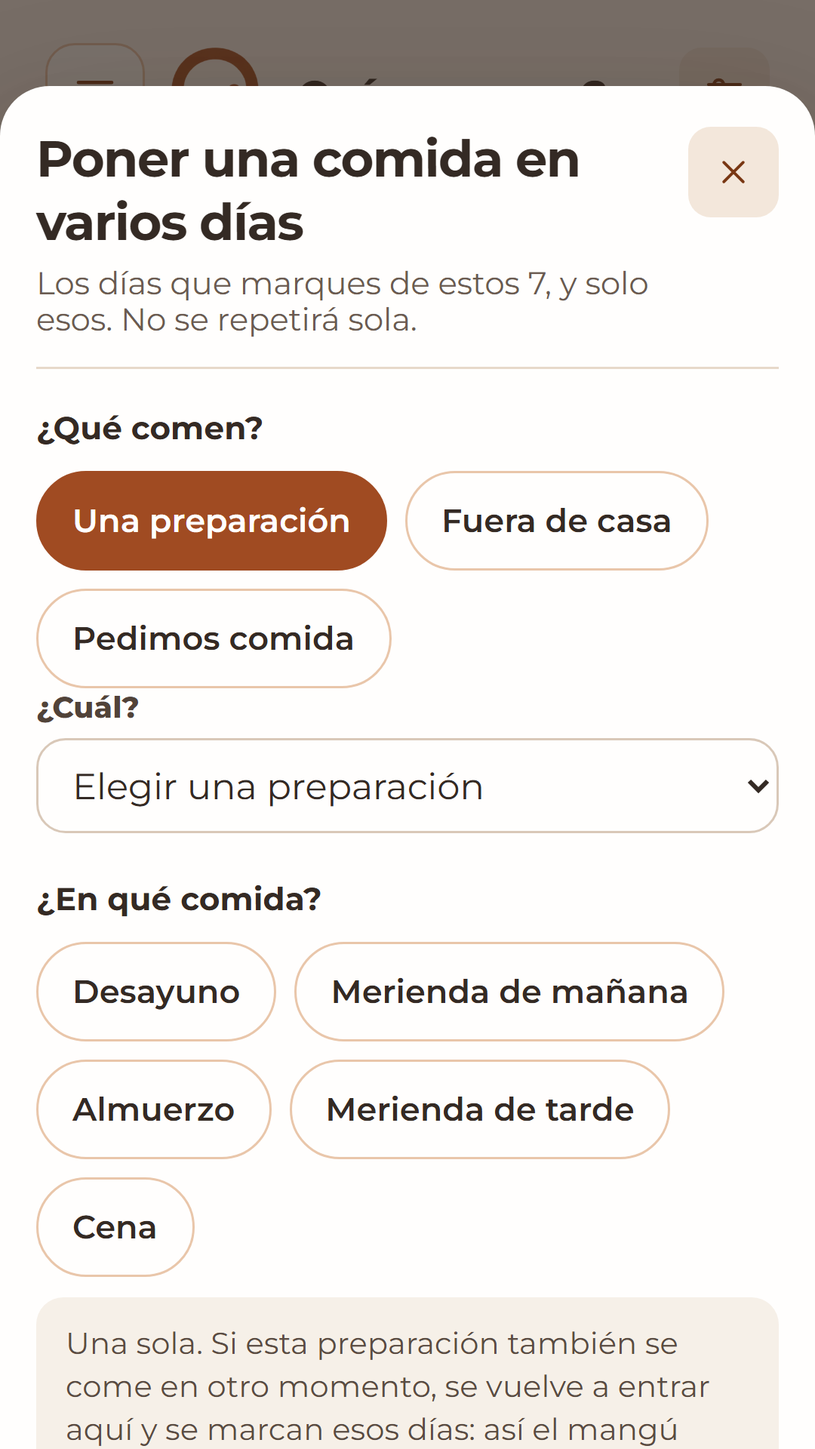
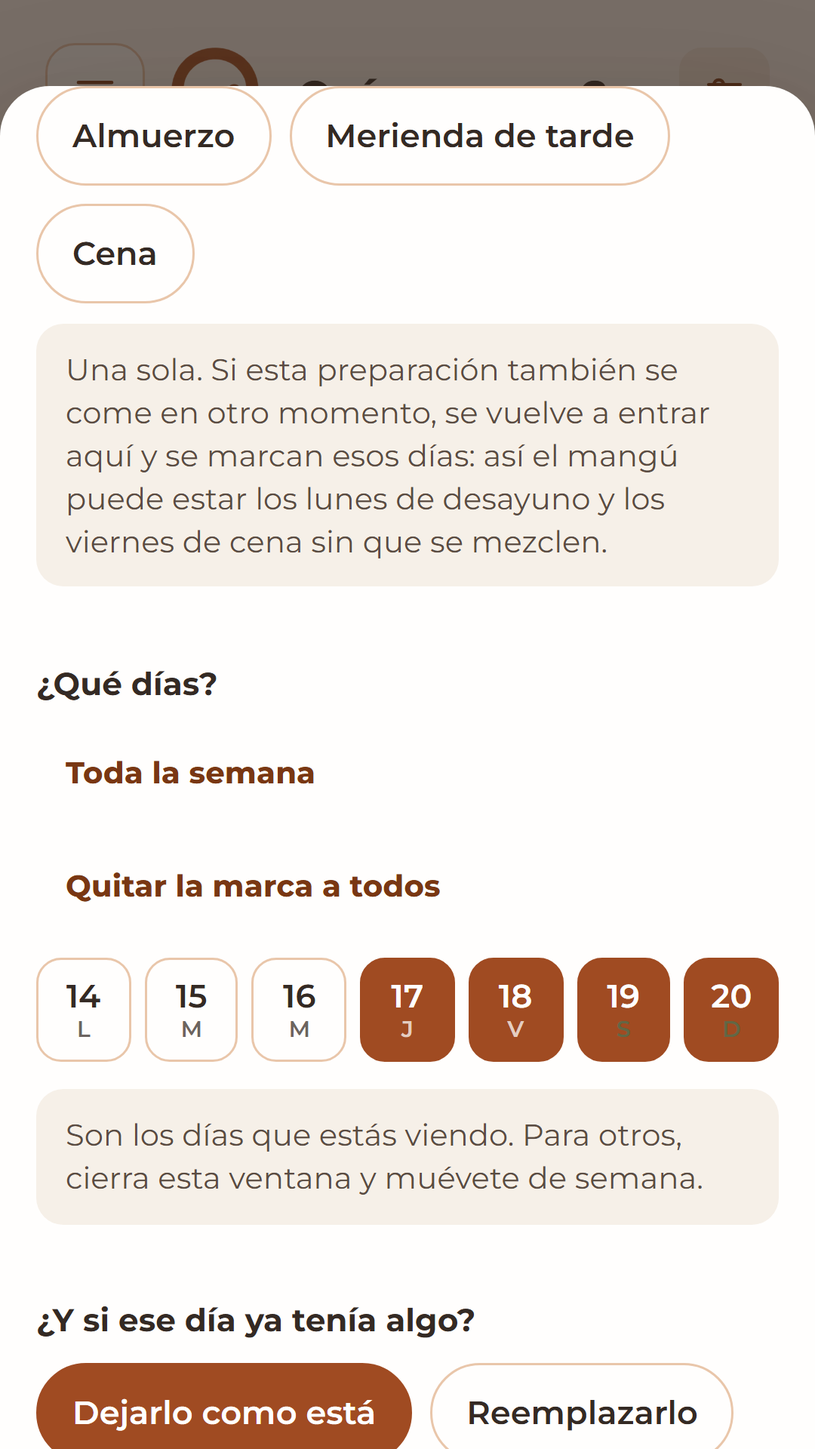
Lo que encontró la verificación independiente
Nueve cosas, y una rompía un criterio que yo daba por bueno: en escritorio, con
el menú lateral plegado, no quedaba ningún engranaje. El del lateral se esconde
con él y el del teléfono está apagado por encima de 700 px, así que no había
puerta a Ajustes. Y el plegado se recuerda entre sesiones: quien lo plegaba una
vez se quedaba sin Ajustes para siempre. Hay un tercero en la cabecera, que
aparece solo en ese caso.

Las otras ocho:

  · Ajustes anunciaba «corregir un conteo viejo» en el mismo commit que borró
    el botón, y el README repetía lo mismo.
  · La ficha de Play decía que la primera captura enseña las cantidades de una
    comida, que la clave de firma no existe todavía, y que el versionCode está
    en 1. Ninguna de las tres era verdad.
  · Tres de las seis capturas no enseñaban lo que su propia ficha promete: la
    ventana de poner en varios días salía vacía y sin días, «Mi lista» no
    enseñaba ni un renglón tachado, y la compra se comía el buscador.
  · Un <form> sin quien lo atendiera, el único huérfano del proyecto.
  · Dos oyentes muertos del inventario en app.js, y el import que los sostenía.
  · Un comentario describiendo el reparto por quincenas, que ya no está debajo.

Y una décima que no era un fallo sino una decisión mal puesta: destachar un
renglón borraba una cantidad parcial escrita a mano. Un dedo de más sobre «traje
1 de 5» tiraba ese 1 sin avisar y sin deshacer. Ahora destachar solo borra lo
que el propio toque había escrito.
[…]

diff --git a/src/app.js b/src/app.js
@@ -8,7 +8,7 @@
 
 import {
   ESTADOS_SIN_COMIDA, MOMENTOS, SLOTS, SLOTS_PRINCIPALES, UNITS, addDays, actualizarHabitual, agregarHabitual, anotarComidaSuelta, copyPlan, createEmptyState, dependents, esOpcional,
-  etiquetaDeMomento, exportState, findSimilarProducts, habitualLines, importState, inventoryNow, esActiva, isAbsent, makeRecipePlan, mergeProducts, movePlan, nextId,
+  etiquetaDeMomento, exportState, findSimilarProducts, habitualLines, importState, esActiva, isAbsent, makeRecipePlan, mergeProducts, movePlan, nextId,
   personasActivas, planFor, ponerFrecuencia, product, removeHabitualLine, rubroDe,
   resumenDeLista, reutilizarComida, setAbsence, setEquivalence,
   detalleDeOrigen, etiquetaDeOrigen, origenDe, setStatusPlan, sliceStyle, todayISO, updatePlan, updateProduct, upsertRecipe
@@ -30,7 +30,7 @@ import { CUENTA_ACTIONS, CUENTA_FORMS, emptyCuenta, renderCuenta, volvimosDeGoog
 import { CAJON_DE_ESTE_TELEFONO, arrancarSesion, cajonDe, fundirSesion, guardarSesion, olvidarSesion } from './sesion.js';
 import { guardarCopiaAntesDeBajar, mereceLaPenaVincular, sincronizar } from './sincronizar.js';
 import { hayNube } from './config-nube.js';
-import { button, cap, empty, esc, fmt, measure, modal, monthName, niceDate, notice, options, unitText } from './ui-kit.js';
+import { button, cap, empty, esc, measure, modal, monthName, niceDate, notice, options, unitText } from './ui-kit.js';
 
 /* ── De qué cajón salen los datos ──────────────────────────────────────────
 
@@ -560,7 +560,7 @@ function pintar() {
     <button type="button" class="drawer-scrim" data-action="close-sidebar" aria-label="Cerrar menú lateral"></button>
     <main class="main">
       <div class="mobile-brand"><button type="button" class="menu-toggle" data-action="toggle-sidebar" aria-label="${ui.drawerOpen ? 'Ocultar menú' : 'Abrir menú'}" aria-controls="app-sidebar" aria-expanded="${ui.drawerOpen}">${icono('menu', { tamano: 22 })}</button><span class="brand-mark">${BRAND_MARK}</span><span>¿Qué comemos?</span>${engranaje('icon-btn engranaje-movil', '')}</div>
-      <header class="topline"><div class="topline-heading"><button type="button" class="menu-toggle desktop-menu-toggle" data-action="toggle-sidebar" aria-label="${ui.sidebarCollapsed ? 'Abrir menú' : 'Ocultar menú'}" aria-controls="app-sidebar" aria-expanded="${!ui.sidebarCollapsed}">${icono('menu', { tamano: 22 })}</button><div><p class="eyebrow">${esc(eyebrow())}</p><h1>${esc(pageTitle())}</h1></div></div></header>
+      <header class="topline"><div class="topline-heading"><button type="button" class="menu-toggle desktop-menu-toggle" data-action="toggle-sidebar" aria-label="${ui.sidebarCollapsed ? 'Abrir menú' : 'Ocultar menú'}" aria-controls="app-sidebar" aria-expanded="${!ui.sidebarCollapsed}">${icono('menu', { tamano: 22 })}</button><div><p class="eyebrow">${esc(eyebrow())}</p><h1>${esc(pageTitle())}</h1></div></div>${engranaje('icon-btn engranaje-plegado', '')}</header>
       ${avisoDeSesion ? notice('Sobre tu cuenta', `${esc(avisoDeSesion)} <button type="button" class="enlace" data-action="navigate" data-page="cuenta">Ir a mi cuenta</button>`, 'warn') : ''}
       ${migratedFrom ? notice('Tus datos se actualizaron al formato nuevo.', 'La canasta que tenías es ahora <strong>tus productos habituales</strong>, y lo que cambiaba en algún mes quedó guardado como cambio de ese mes. Nada se perdió, y lo anterior quedó a salvo por si acaso.') : ''}
       ${loadError ? notice('No se pudieron leer los datos guardados.', `${esc(loadError)} Trae una copia desde Ajustes → Respaldo, o borra los datos para empezar de nuevo.`, 'error') : ''}
@@ -1391,7 +1391,6 @@ document.addEventListener('change', event => {
     const form = el.closest('form'), date = form.querySelector('[name="date"]').value, slot = form.querySelector('[name="slot"]').value;
     form.querySelectorAll('[name="absent"]').forEach(input => input.checked = isAbsent(state, date, slot, input.value));
   }
-  if (el.name === 'productId' && el.closest('[data-form="correction"]')) el.form.querySelector('[name="actual"]').value = inventoryNow(state)[el.value] || 0;
   // El grosor solo aparece en lo que se corta; se oculta sin volver a dibujar
   // el formulario para no perder lo ya escrito.
 
@@ -1436,17 +1435,6 @@ document.addEventListener('input', event => {
       : '';
     return;
   }
-  const input = event.target;
-  if (!input.name?.startsWith('consume-')) return;
-  const fila = input.closest('[data-review-product]');
-  const celda = fila?.querySelector('.revision-derivado');
-  if (!celda) return;
-  const queda = fila.dataset.mode === 'restante';
-  if (input.value === '') { celda.textContent = 'pendiente'; celda.className = 'revision-derivado remaining pending'; return; }
-  const derivado = Number(fila.dataset.available) - Number(input.value);
-  const excede = derivado < 0;
-  celda.textContent = excede ? (queda ? 'queda más de lo que había anotado' : 'revisa la cantidad') : `${queda ? 'se consumió' : 'queda'} ${fmt(derivado)}`;
-  celda.className = `revision-derivado remaining ${excede ? 'pending' : 'good'}`;
 });
 
 document.addEventListener('keydown', event => {

diff --git a/src/page-mas.js b/src/page-mas.js
@@ -355,7 +355,7 @@ function tablaDeRevision(ctx, revision) {
   const visibles = revision.productIds;
 
   return `<p class="pantalla-intro">${esc(niceDate(revision.date, { weekday: 'long', day: 'numeric', month: 'long' }))} · lo que se contó aquel día. ${queda ? 'La cifra de la derecha es lo que quedaba.' : 'La cifra de la derecha es lo que se había consumido.'}</p>
-    <form data-form="review" data-id="${revision.id}">
+    <div class="revision-cuerpo">
       <div class="card revision-lista">${(visibles.length ? visibles : []).map(id => {
         const item = product(state, id);
         const habia = disponible[id] || 0;
@@ -374,7 +374,7 @@ function tablaDeRevision(ctx, revision) {
       }).join('')}</div>
       <p class="small muted">Es lo que se anotó aquel día, tal cual. La app dejó de llevar la cuenta de la despensa y esto ya no se vuelve a calcular.</p>
       <div class="pantalla-acciones"><span class="pill">Terminada</span></div>
-    </form>`;
+    </div>`;
 }
 
 const corte = (item, cantidad) => {
@@ -638,7 +638,7 @@ function renderAjustes(ctx) {
     </div>
     <div class="card">
       <h3>Preferencias de la aplicación</h3>
-      <p class="muted small">Cada cuánto se hace la compra principal —y cómo se reparte el mes cuando se compra dos veces—, y las herramientas de reparar: medidas de compra, unir dos alimentos que son el mismo, corregir un conteo viejo.</p>
+      <p class="muted small">Cada cuánto se hace la compra principal —y cómo se reparte el mes cuando se compra dos veces—, y las herramientas de reparar: medidas de compra, unir dos alimentos que son el mismo, archivar lo que la casa dejó de comprar.</p>
       <p class="small">Compra <strong>${esc(frecuenciaDe(state, hoy().slice(0, 7)) === 'quincenal' ? 'quincenal — dos veces al mes' : 'mensual — una vez al mes')}</strong>.</p>
       <div class="inline">${button('Organización de compra', 'navigate', 'btn-secondary btn-small', 'data-page="organizacion"')}${button('Funciones avanzadas', 'navigate', 'btn-secondary btn-small', 'data-page="avanzado"')}</div>
     </div>
@@ -725,9 +725,6 @@ function formularioDeFrecuencia(ctx, actual, mesActual) {
     </div>
   </form>`;
 }
-
-// El reparto entre las dos quincenas, el mismo que enseña el recorrido guiado.
-// Aquí vive el resto del año, que es cuando de verdad se corrige.
 
 /* ── Privacidad y condiciones ──────────────────────────────────────────── */
 

diff --git a/tools/capturas.js b/tools/capturas.js
@@ -76,21 +76,30 @@ const PANTALLAS = [
   {
     archivo: '3-poner-en-dias.png',
     titulo: 'Una comida en varios días — se marcan y se ponen',
-    // Con los siete días siguientes ya marcados, que es lo que hay que enseñar:
-    // una ventana vacía no explica nada a quien todavía no sabe para qué sirve.
+    // Con una preparación elegida y los siete días siguientes ya marcados, que
+    // es lo que hay que enseñar: una ventana vacía no explica nada a quien
+    // todavía no sabe para qué sirve. El desplazamiento baja dentro de la
+    // ventana —no de la página— hasta las casillas de los días.
     hacer: `${ir('semana')};
       await new Promise(r => setTimeout(r, 400));
       document.querySelector('[data-action="semana-poner-en-dias"]')?.click();
       await new Promise(r => setTimeout(r, 500));
-      document.querySelector('[data-action="poner-dias-atajo"][data-cuantos="7"]')?.click();`
+      const receta = document.querySelector('[data-form="poner-en-dias"] [name="recipeId"]');
+      if (receta) {
+        const opcion = [...receta.options].find(o => o.value);
+        if (opcion) { receta.value = opcion.value; receta.dispatchEvent(new Event('change', { bubbles: true })); }
+      }
+      await new Promise(r => setTimeout(r, 300));
+      document.querySelector('[data-action="poner-dias-atajo"][data-cuantos="7"]')?.click();`,
+    desplazar: 430
   },
   {
     archivo: '4-compra.png',
     titulo: 'Preparar la compra — tus productos, por rubros',
-    // Hasta los rubros. Arriba solo hay avisos, y un aviso no enseña para qué
-    // sirve la pantalla.
+    // Hasta el buscador y el primer rubro. Más abajo se pierde de vista que
+    // esto se puede buscar, que es la mitad de para qué sirve la pantalla.
     hacer: ir('compra'),
-    desplazar: 620
+    desplazar: 430
   },
   {
     archivo: '5-mi-lista.png',
@@ -101,7 +110,10 @@ const PANTALLAS = [
         .find(b => /mi lista/i.test(b.textContent))?.click();
       await new Promise(r => setTimeout(r, 500));
       ${MARCAR_COMPRADO}`,
-    desplazar: 260
+    // Lo que esta captura tiene que enseñar son las dos mitades a la vez: un
+    // renglón por buscar arriba y, debajo, «Ya en el carrito» con lo tachado.
+    // Bajar hasta el final enseña solo la segunda.
+    desplazar: 640
   },
   {
     archivo: '6-habituales.png',

diff --git a/tests/textos-retirados.test.js b/tests/textos-retirados.test.js
@@ -42,8 +42,34 @@ const PROMESAS_RETIRADAS = [
   ['la canasta, el menú, la compra y el inventario', 'ni canasta, ni menú, ni inventario'],
   ['más → respaldo', 'la sección «Más» no existe'],
   ['corregir lo que hay', 'la app no sabe lo que hay'],
+  ['corregir un conteo', 'esa herramienta se retiró en la Fase 3'],
   ['plan mensual', 'la sección se llama Plan semanal']
 ];
+
+/* La lista de arriba es una lista blanca, y las listas blancas solo cazan lo
+   que ya se cazó una vez. Esta segunda comprobación es al revés: se parte de
+   los controles que **existen** y se exige que nadie nombre uno que no esté.
+   Fue lo que se escapó en la Fase 3 —Ajustes anunciaba «corregir un conteo
+   viejo» en la misma versión en que el botón desapareció—. */
+
+const HERRAMIENTAS_QUE_EXISTEN = ['medidas de compra', 'unir dos alimentos', 'archivar'];
+
+test('lo que Ajustes anuncia es lo que Funciones avanzadas ofrece', () => {
+  const fuente = readFileSync('src/page-mas.js', 'utf8');
+  const tarjeta = fuente.slice(fuente.indexOf('Preferencias de la aplicación'), fuente.indexOf('Preferencias de la aplicación') + 600);
+  const anunciadas = tarjeta.toLocaleLowerCase('es');
+  for (const [frase, porque] of PROMESAS_RETIRADAS) {
+    assert.ok(!anunciadas.includes(frase), `Ajustes anuncia «${frase}» — ${porque}`);
+  }
+  // Y lo que anuncia tiene que estar de verdad en la pantalla que abre.
+  const avanzado = fuente.slice(fuente.indexOf('function renderAvanzado'));
+  for (const herramienta of HERRAMIENTAS_QUE_EXISTEN) {
+    if (!anunciadas.includes(herramienta)) continue;
+    const palabra = herramienta.split(' ')[0];
+    assert.ok(avanzado.toLocaleLowerCase('es').includes(palabra),
+      `Ajustes anuncia «${herramienta}» y Funciones avanzadas no la tiene`);
+  }
+});
 
 // En el código, los comentarios sí pueden nombrar lo retirado: explicar por qué
 // una función se fue es justo lo que hay que dejar escrito para quien venga

diff --git a/tests/compra-lista.test.js b/tests/compra-lista.test.js
@@ -305,7 +305,23 @@ test('tachar un renglón no reescribe lo que se anotó a mano', () => {
     'tachar pisó la cantidad que la persona había escrito');
   assert.equal(listaDeCompra(state, lista.id).lineas[0].comprado, true);
 
-  // Y destachar sigue queriendo decir «al final no traje nada».
+  // Y destachar tampoco la tira: ese 1 lo escribió una persona en el pasillo
+  // del supermercado, y un dedo de más no puede borrarlo sin avisar.
+  marcarComprado(state, lista.id, linea.id, false);
+  assert.equal(listaDeCompra(state, lista.id).lineas[0].comprado, false);
+  assert.equal(listaDeCompra(state, lista.id).lineas[0].comprada, 1,
+    'destachar borró una cantidad parcial que nadie pidió borrar');
+});
+
+test('destachar lo que el toque puso sí lo borra', () => {
+  // La otra mitad: si la cantidad la escribió el propio toque —porque no había
+  // ninguna—, destachar quiere decir «al final no traje nada de esto».
+  const { state, arroz } = casa();
+  const lista = crearLista(state);
+  const linea = agregarALista(state, lista.id, { productId: arroz, cantidad: 25, unidad: 'lb' });
+
+  marcarComprado(state, lista.id, linea.id, true);
+  assert.equal(listaDeCompra(state, lista.id).lineas[0].comprada, 25);
   marcarComprado(state, lista.id, linea.id, false);
   assert.equal(listaDeCompra(state, lista.id).lineas[0].comprada, null);
 });

diff --git a/src/sistema.css b/src/sistema.css
@@ -388,6 +388,15 @@ input.text, select.text, textarea.text { border-radius: var(--curva-2); }
 .mobile-brand { position: relative; }
 .engranaje-movil { display: none; margin-left: auto; flex: none; }
 @media (max-width: 700px) { .engranaje-movil { display: grid; } }
+
+/* El tercero: la cabecera. Solo aparece en escritorio con el menú plegado, que
+   es el único momento en que los otros dos no están. El lateral se esconde con
+   el menú y el del teléfono está apagado por encima de 700 px, así que sin este
+   quien pliega el menú se queda sin puerta a Ajustes —y el plegado se recuerda
+   entre sesiones, así que se quedaba sin ella para siempre—. */
+.engranaje-plegado { display: none; flex: none; }
+@media (min-width: 701px) { .shell.sidebar-collapsed .engranaje-plegado { display: grid; } }
+.engranaje-plegado.active { background: var(--clay-light); color: var(--clay-dark); }
 .engranaje-movil.active { background: var(--clay-light); color: var(--clay-dark); }
 
 /* En el lateral, el engranaje es una fila más de la barra: el mismo alto, el

diff --git a/src/model.js b/src/model.js
@@ -1707,8 +1707,11 @@ export function marcarComprado(state, listaId, lineaId, comprado = true) {
   // busca más. Sobrescribir ese 1 con un 2 metería en el historial una compra
   // que no ocurrió.
   //
-  // Destachar sí lo borra: es «al final no traje nada de esto».
-  if (!comprado) linea.comprada = null;
+  // Destachar borra lo que el toque había puesto —«al final no traje nada de
+  // esto»— pero respeta una cantidad parcial escrita a mano: esa no la puso el
+  // toque, y un dedo de más no puede tirar lo que alguien contó en el pasillo
+  // del supermercado.
+  if (!comprado && (linea.comprada === null || linea.comprada === linea.cantidad)) linea.comprada = null;
   else if (linea.comprada === null || linea.comprada === undefined) linea.comprada = linea.cantidad;
   lista.updatedAt = todayISO();
   return linea;

diff --git a/docs/fase-3-entrega.md b/docs/fase-3-entrega.md
@@ -5,7 +5,7 @@ encontré roto por el camino, cómo probarlo tú mismo en local, y qué APK es l
 buena.
 
 **Versión entregada:** 3.0 (`versionCode` 5) · `com.nexocore.quecomemos`
-**Pruebas:** 587, todas en verde (`node --test tests/*.test.js`)
+**Pruebas:** 589, todas en verde (`node --test tests/*.test.js`)
 
 ---
 
@@ -39,7 +39,7 @@ línea, o una prueba que falla si eso deja de ser verdad.
 | 2.1 | Cinco secciones exactas, en orden: Hoy · Plan semanal · Compra · Mis productos habituales · Preparaciones | HECHO | `src/app.js` `NAV`; `tests/pages.test.js` |
 | 2.2 | Sin «Más» y sin «Plan mensual» | HECHO | `tests/textos-retirados.test.js` |
 | 2.3 | Productos y Preparaciones abren sus pantallas existentes, sin copias | HECHO | Las dos entran por `renderMas`, el mismo módulo de siempre |
-| 2.4 | Engranaje visible que abre Ajustes, en móvil y en escritorio | HECHO | `src/app.js` `engranaje()`; comprobado a 375 px y en escritorio |
+| 2.4 | Engranaje visible que abre Ajustes, en móvil y en escritorio | HECHO | `src/app.js` `engranaje()`, tres instancias. **La verificación encontró que con el menú plegado no había ninguna**: arreglado con el de la cabecera |
 | 2.5 | Ajustes agrupa los seis destinos pedidos | HECHO | `src/page-mas.js` `renderAjustes`; `tests/pages.test.js` |
 | 2.6 | «Alimentos de la casa» retirada como ficha técnica y como segunda vía | HECHO | Editar se hace desde la fila del producto; archivar y unir, desde Funciones avanzadas |
 | 2.7 | Registro inicial de cinco pasos, escrito para esta versión | HECHO | `src/setup.js` `PASO`; recorrido entero comprobado a mano |
@@ -86,7 +86,9 @@ línea, o una prueba que falla si eso deja de ser verdad.
 
 ## 2. Lo que encontré roto, y arreglé
 
-Ninguna de estas siete la pediste: salieron auditando.
+Ninguna la pediste: salieron auditando. Las siete primeras las encontré yo; las
+nueve del apartado 2b las encontró la verificación independiente **después** de
+que yo diera la fase por lista.
 
 1. **El buscador de «Preparar la compra» no hacía nada.** El campo estaba
    dibujado y ningún manejador lo escuchaba: se tecleaba y la lista no se
@@ -120,6 +122,43 @@ Ahora está en `src/avisos.js` con doce pruebas.
 
 ---
 
+## 2b. Lo que encontró la verificación independiente
+
+Un segundo agente revisó los 27 criterios sin fiarse de nada de lo anterior.
+Encontró **nueve cosas**, y una de ellas rompía un criterio de la Fase 2 que yo
+daba por bueno. Las nueve están arregladas.
+
+1. **En escritorio, con el menú lateral plegado, no había ningún engranaje.** El
+   engranaje vivía en dos sitios: dentro del lateral, y arriba en el teléfono.
+   Al plegar el lateral el primero se esconde con él y el segundo está apagado
+   por encima de 700 px: cero puertas a Ajustes. Y el plegado **se recuerda
+   entre sesiones**, así que quien lo plegaba una vez se quedaba sin Ajustes
+   para siempre. Hay un tercer engranaje en la cabecera, que aparece solo en ese
+   caso.
+2. **Ajustes anunciaba una herramienta que se acababa de retirar**: «corregir un
+   conteo viejo», en el mismo commit que borró el botón.
+3. **El README repetía lo mismo.**
+4. **La ficha de Play decía que la primera captura enseña «las cantidades»** de
+   una comida, que se retiraron hace dos commits.
+5. **Tres de las seis capturas no enseñaban lo que su propia ficha promete**: la
+   de poner en varios días salía con el desplegable vacío y los días fuera del
+   corte; la de «Mi lista» no enseñaba ni un renglón tachado; la de la compra se
+   comía el buscador. Las tres, regeneradas.
+6. **Un `<form>` sin nadie que lo atendiera** en la pantalla de una revisión
+   vieja: el único `data-form` huérfano del proyecto.
+7. **Fontanería muerta del inventario en `app.js`**: dos oyentes de campos que
+   ya no se dibujan, y el import que los sostenía.
+8. **La ficha de Play decía que la clave de firma «no existe todavía»** y que el
+   `versionCode` estaba en 1. Existe desde la versión 2.0, y va por 5.
+9. **Un comentario huérfano** describiendo el reparto por quincenas.
+
+Y una décima que no era un fallo sino una decisión mal puesta: **destachar un
+renglón borraba una cantidad parcial escrita a mano**. Un dedo de más sobre
+«traje 1 de 5» tiraba ese 1 sin avisar y sin deshacer. Ahora destachar solo
+borra lo que el propio toque había escrito.
+
+---
+
 ## 3. La limpieza, una por una
 
 | Función retirada | Qué quedaba | Cómo quedó |
@@ -148,7 +187,7 @@ escribirlos.
 npm test
 ```
 
-587 pruebas. Después:
+589 pruebas. Después:
 
 ```bash
 npm start

diff --git a/docs/play-store.md b/docs/play-store.md
@@ -8,7 +8,7 @@ Todo lo de aquí sale de leer el código de la app, no de suponer. Cuando algo d
 - **Identificador:** `com.nexocore.quecomemos`
 - **Categoría sugerida:** Estilo de vida (alternativa razonable: Productividad)
 - **Precio:** gratis, sin compras dentro de la app
-- **Actualizado:** 16 de septiembre de 2026
+- **Actualizado:** 17 de septiembre de 2026
 - **Correo de contacto:** `nexocore.group@gmail.com` — **provisional**
 
 Ese correo ya está escrito en las cuatro páginas de `legal/` y en `src/legal.js`, y va también en la ficha de la tienda, donde **es público**: lo ve cualquiera que abra la ficha. Está marcado como provisional a la espera del buzón oficial de NexoCore; cuando cambie, cambia en seis archivos a la vez:
@@ -395,9 +395,9 @@ $bt = Get-ChildItem "$env:LOCALAPPDATA\Android\Sdk\build-tools" -Directory | Sor
 
 **1. Las seis capturas, y por qué esas.** Las genera `npm run capturas`; el orden es el del archivo y cada una tiene una idea sola:
 
-1. **Hoy** — el desayuno y el almuerzo con sus cantidades. Es lo que la gente va a ver todos los días.
+1. **Hoy** — el desayuno, el almuerzo y la cena, con qué lleva cada uno y la nota de quien cocina. Es lo que la gente va a ver todos los días.
 2. **Plan semanal** — los siete días, con lo que hay decidido y lo que falta.
-3. **Poner una comida en varios días** — con los siete días siguientes ya marcados. Es la única ayuda que la app da para no tocar treinta casillas, y por eso se enseña con algo marcado en vez de un formulario en blanco.
+3. **Poner una comida en varios días** — con una preparación elegida y los días que quedan de la semana ya marcados. Es la única ayuda que la app da para no tocar treinta casillas, y por eso se enseña con algo marcado en vez de un formulario en blanco.
 4. **Preparar la compra** — los productos habituales por rubros, con el buscador.
 5. **Mi lista** — lo pendiente arriba y lo comprado tachado al final.
 6. **Mis productos habituales** — lo que se marca una sola vez.
@@ -418,7 +418,9 @@ Por orden, y con lo que ya está hecho marcado.
 
 > **Compruébalo antes de contar con la fecha:** desde hace un tiempo Google exige a las **cuentas personales nuevas** hacer una prueba cerrada con un mínimo de participantes durante un número de días seguidos antes de poder publicar en producción. Las cuentas de organización tienen otro camino, pero piden un número D-U-N-S. El requisito exacto cambia cada tanto, así que míralo en la Play Console del día en que abras la cuenta y **cuenta ese tiempo en el plan**.
 
-**2. La clave de firma. No existe todavía.** Es el paso que no se puede deshacer.
+**2. La clave de firma. Ya existe** (`android/que-comemos.jks`, con su `keystore.properties` al lado, los dos fuera de git). Las versiones 2.0 en adelante salen firmadas con ella; sus huellas están en el apartado 9.
+
+Si alguna vez hay que crear una desde cero —en otra máquina, para otra app— este es el comando. **Es el paso que no se puede deshacer.**
 
 ```powershell
 cd android
@@ -429,7 +431,7 @@ Después, copia `android/keystore.properties.example` a `android/keystore.proper
 
 > **Google no deja cambiar esa clave una vez publicada la primera versión.** Si pierdes el `.jks` o su contraseña, no puedes actualizar tu propia app nunca más: hay que publicarla de cero con otro identificador, y quien ya la tuviera no recibe la actualización. Guarda una copia en un sitio que sobreviva a que se te dañe la computadora. El `.jks` y el `keystore.properties` están en `.gitignore` a propósito.
 
-**3. `versionCode`.** Ahora mismo está en `1` en `android/app/build.gradle`, con `versionName "1.0"`. Para la primera subida está bien. **A partir de ahí tiene que crecer con cada publicación**: Play rechaza un número repetido, y el error aparece al subir, no al compilar.
+**3. `versionCode`.** Ahora mismo está en `5` en `android/app/build.gradle`, con `versionName "3.0"`. **Tiene que crecer con cada publicación**: Play rechaza un número repetido, y el error aparece al subir, no al compilar. La cuenta hasta aquí: 1 → 1.0, 2 → 2.0, 3 → 2.1, 4 → 2.2, 5 → 3.0.
 
 **4. El AAB.** Play no acepta APK desde 2021.
 

diff --git a/README.md b/README.md
@@ -163,9 +163,12 @@ cuenta saliera, y una casa no lleva inventario: mira la nevera y decide.
 Lo que se escribió con aquella versión **no se borró**. El historial se lee tal
 cual, con un aviso encima que dice lo que es: cantidades anotadas entonces, que
 no dicen lo que hay hoy en la despensa. La pantalla de las revisiones viejas
-sigue accesible y en solo lectura; unir dos alimentos repetidos y corregir un
-conteo a mano siguen existiendo dentro de *Funciones avanzadas*, porque quien
-tenga aquellos datos puede necesitar arreglarlos.
+sigue accesible y en solo lectura. Arreglar a mano aquellas cifras **se
+retiró**: lo que se escribiera ahí no alimentaba ninguna pantalla, y un botón
+que promete arreglar «lo que hay» afirma que la app sabe lo que hay. Lo que
+sí queda en
+*Funciones avanzadas* es unir dos alimentos repetidos, decir cómo se compra uno,
+y archivar lo que la casa dejó de comprar.
 
 
 ### Una sola puerta de salida a la red
